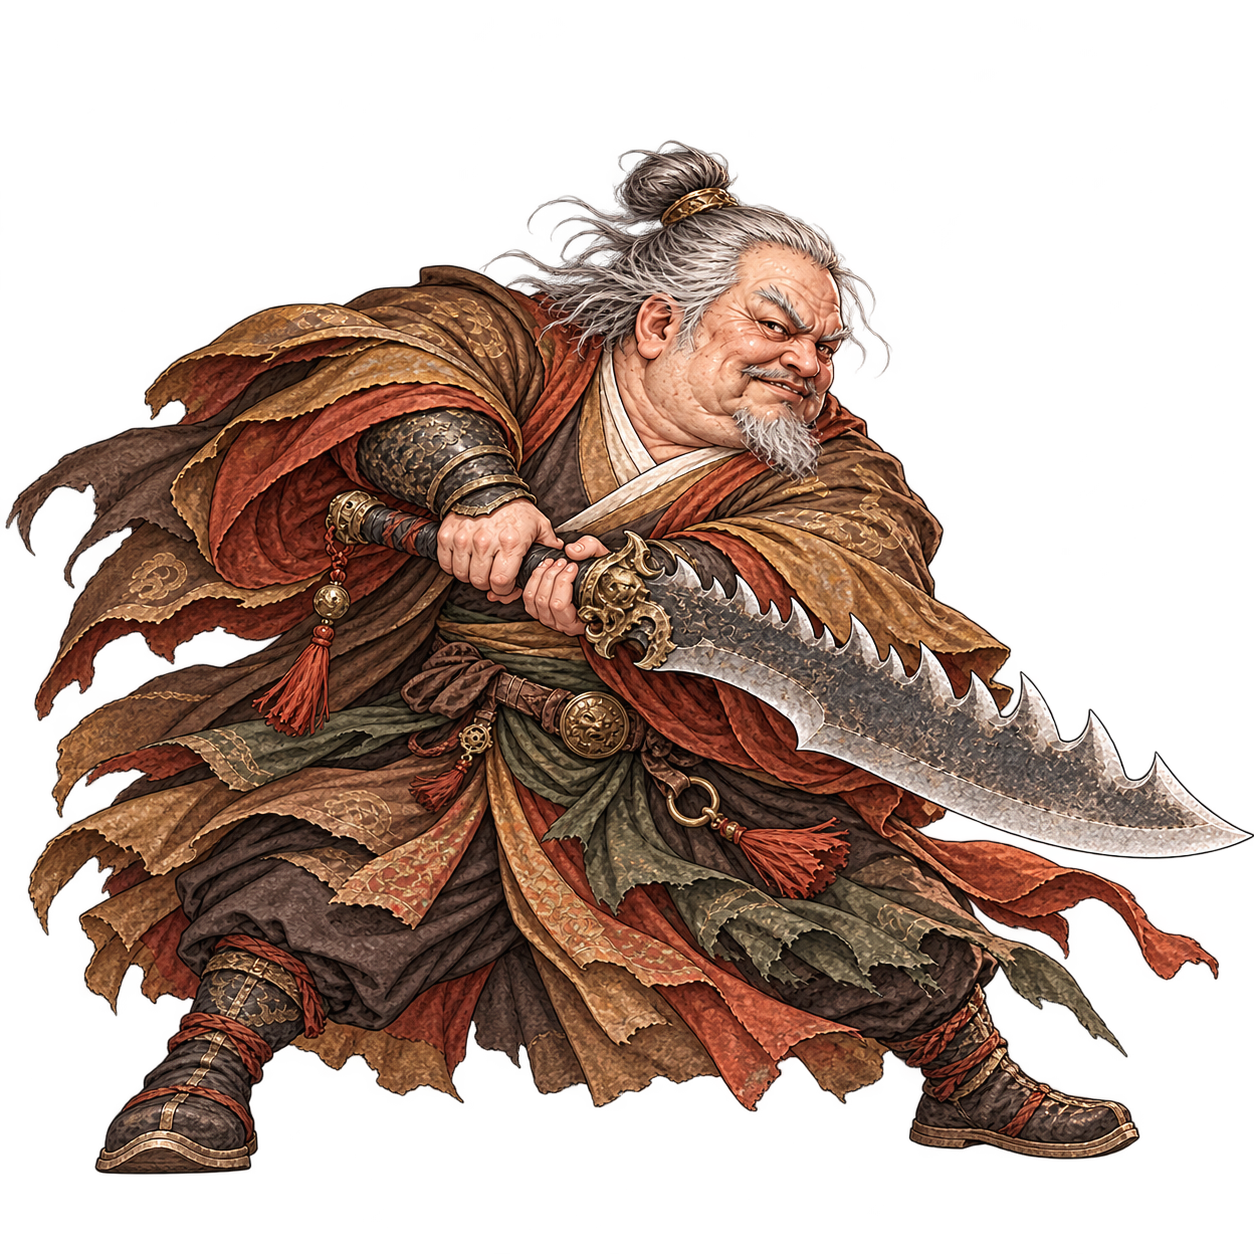
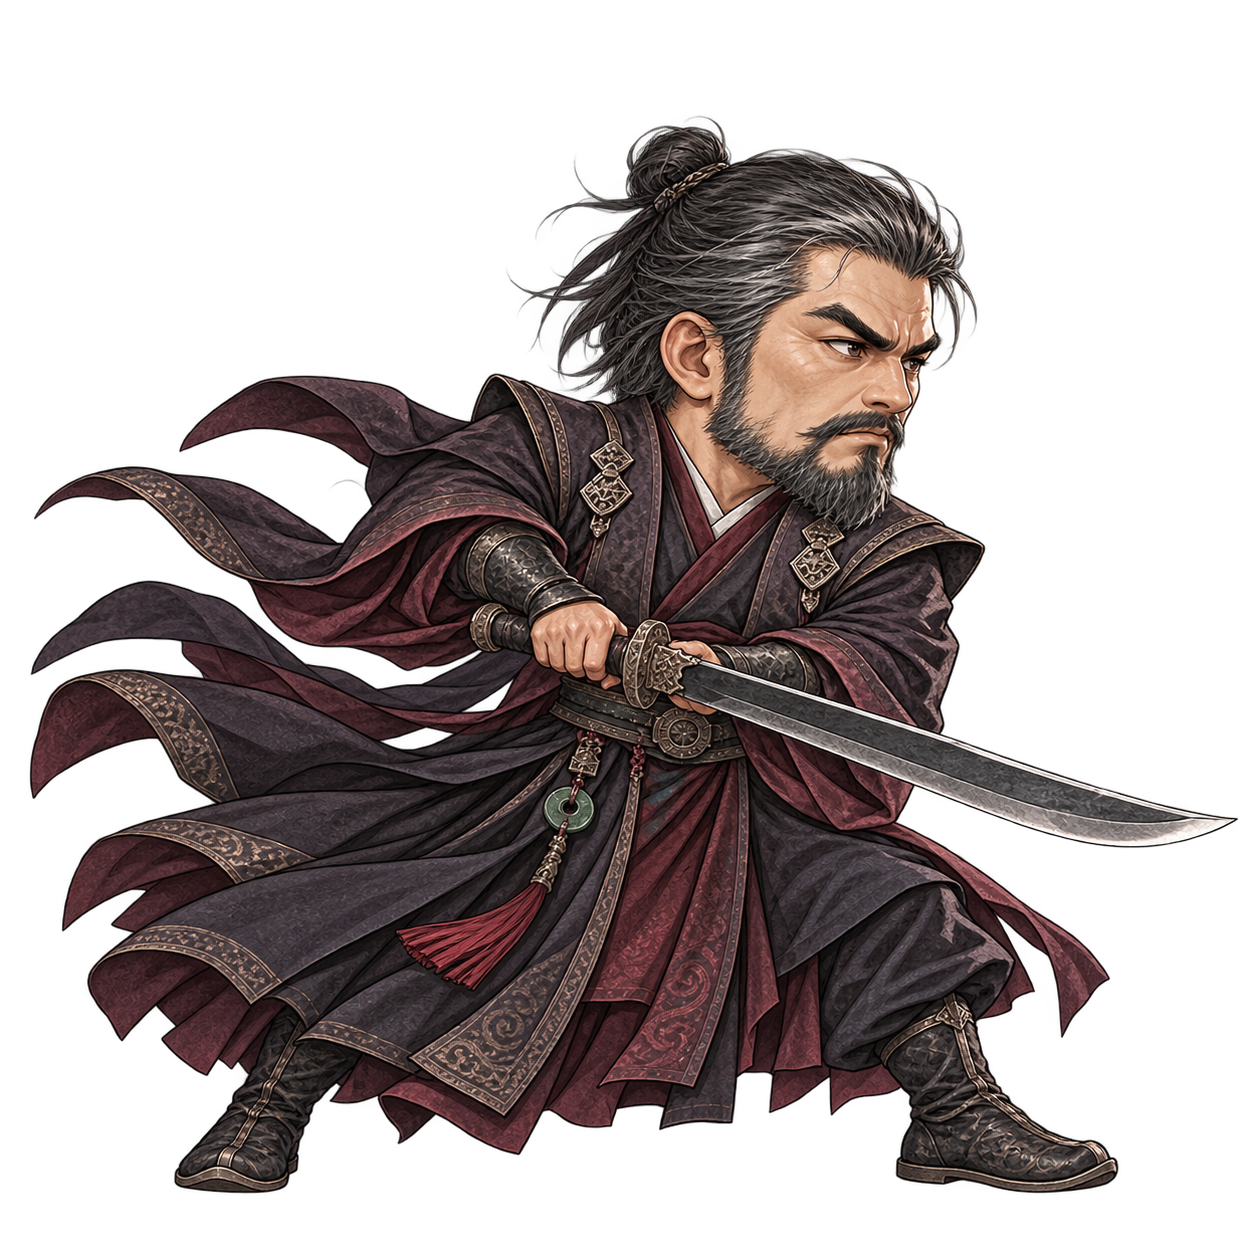
Refresh master battle SD sprites from latest standing portraits

diff --git a/Story/GAME_MAPPING.md b/Story/GAME_MAPPING.md
@@ -984,3 +984,16 @@ Standing에 남아 있던 한글 파일명 23건도 영문 키로 변경했다. 
 | 신유성 | `shin_yuseong.png` | 녹청·황토색 여행복, 여유 있는 표정, 은패와 사색 수실, 가벼운 검술 자세 |
 
 6종 모두 개별 투명 PNG·Unity `.meta`를 추가하며 기존 Standing·Battle 파일은 보존한다. `ArtLibrary.SdFigure`의 기존 전용 키 우선 조회로 연결되며 새 전투·배역·무공·보상은 추가하지 않는다. 린에게 원화에 없던 무기를 부여하지 않는다. 매화가면은 노인이 아닌 비류연의 변장이라는 사용자 지정 해석을 유지한다.
+
+
+### 공패·갈중혁·도성의 최신 Standing 기반 SD — 2026-11-01
+
+사용자 요청으로 최신 Standing의 외형을 전투 SD에 반영했다. 과거 원화·SD보다 최신 사용자 정정 설정과 현재 Standing을 우선하며 복식·얼굴·자세를 재구성했다. 모두 오른쪽의 적을 바라보는 투명 PNG다.
+
+| 인물 | Battle 키 | 최신 원화에서 반영한 특징 |
+|---|---|---|
+| 공패 | `gong_pae` | 큰 골격·넓은 어깨·살집 있는 허리, 짧고 단정한 회흑색 머리·수염과 사각 얼굴, 자흑·먹색·암홍 복식, 단일 대도를 낮게 겨누는 묵직한 자세 |
+| 갈중혁(혁중) | `hyeok_jung` | 긴 회흑색 머리와 엄숙한 노년의 눈매, 회색·먹색·자주색 겹옷, 두 자루 굉천도를 높고 낮게 나누어 든 자세 |
+| 도성 | `do_seong` | 긴 직사각형 얼굴과 무거운 턱선, 높이 묶은 백발과 긴 백색 수염, 주홍·금색 예복, 단일 도를 든 정파 절대고수의 자세 |
+
+공패의 기존 SD는 교체하고 `.meta`와 GUID는 보존한다. `hyeok_jung`·`do_seong`은 신규 SD와 개별 `.meta`를 추가한다. Standing 원본·인물 ID·기존 대사·전투 능력치·진행·보상은 변경하지 않는다. 연출 자세와 복식 세부는 게임용 미술 해석이다.

diff --git a/Docs/STANDING_ART_CATALOG.md b/Docs/STANDING_ART_CATALOG.md
@@ -148,3 +148,7 @@
 ## 신규 인물 전투 SD 2차 — 2026-11-01
 
 린(`young_na_yerin`)·혁월린(`hyeok_wolrin`)·갈중천(`gal_jungcheon`)·매화가면(`maehwa_mask_trial`)·은가면 비탄(`mask_bitan`)·신유성(`shin_yuseong`)의 SD를 `Resources/Art/Battle/`에 추가했다. 모두 Standing 원본을 바탕으로 오른쪽을 보는 자세이며, 기존 그림은 보존한다. 1·2차 합계로 신규 Standing 12종의 SD가 마련되었다. 디자인과 키 연결은 [GAME_MAPPING](../Story/GAME_MAPPING.md)의 SD 2차 항목 참조.
+
+## 공패·갈중혁·도성 최신 원화의 SD 반영 — 2026-11-01
+
+최신 Standing을 참고해 Battle `gong_pae`를 교체하고 `hyeok_jung`·`do_seong`을 새로 추가했다. 공패의 자흑색 복식·다부진 체형, 갈중혁의 회흑색 복식·쌍도, 도성의 백색 수염·주홍색 예복을 구분한다. Standing 원본과 기존 공패 SD의 Unity GUID는 유지한다. 자세와 연결 범위는 [GAME_MAPPING](../Story/GAME_MAPPING.md)의 같은 항목 참조.
